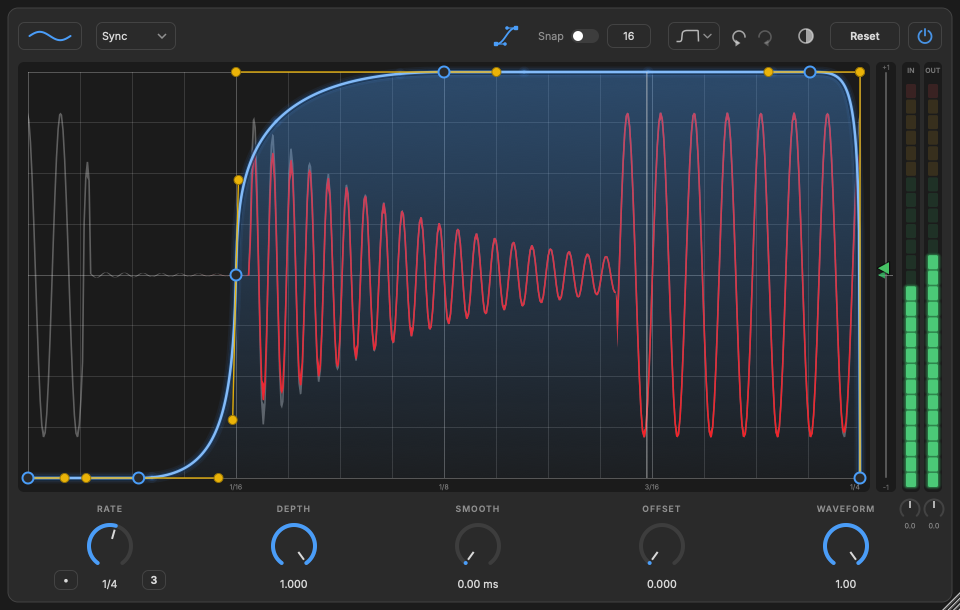
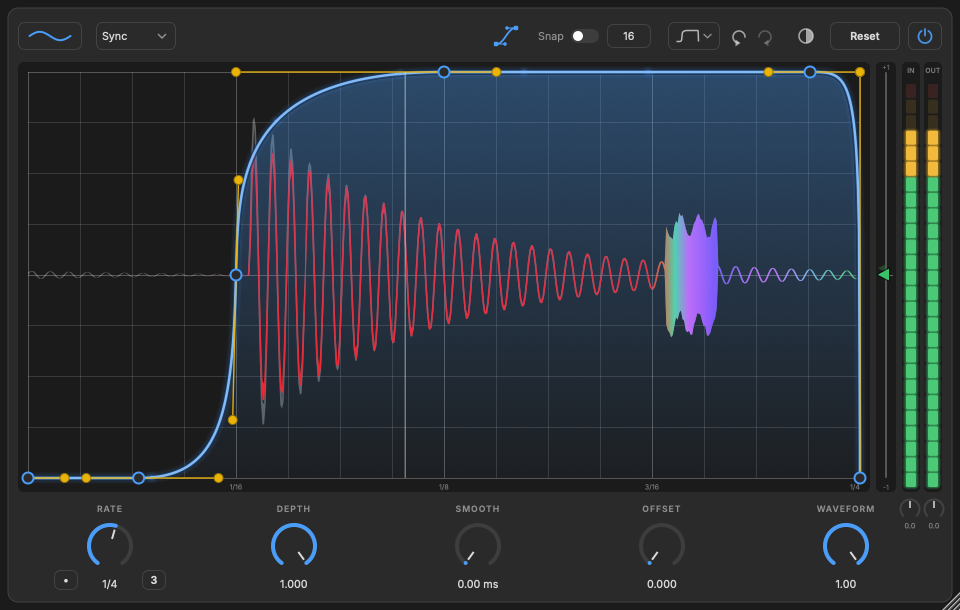
README screenshots: let the meters redraw and the scope fill with fresh audio before capturing; test that single-band OUT never reads above IN

Changed region(s): [[0.625, 0.1869, 1.0, 0.7164], [0.0312, 0.218, 0.0938, 0.7164]]

diff --git a/tests/snapshot.cpp b/tests/snapshot.cpp
@@ -1062,10 +1062,12 @@ int main(int argc, char** argv)
         fe->setDarkMode(true, false);
         juce::MessageManager::getInstance()->runDispatchLoopUntil(300);
         run(30);
+        juce::MessageManager::getInstance()->runDispatchLoopUntil(100); // the meters redraw on a timer: let them catch up with this audio
         save(ed->createComponentSnapshot(ed->getLocalBounds(), true, 1.0f), dir.getChildFile("dark_multiband.png"));
         setParam(p, "mb", 0.f);
         juce::MessageManager::getInstance()->runDispatchLoopUntil(300);
-        run(30);
+        run(200); // several whole cycles, so no part of the scope still shows earlier material
+        juce::MessageManager::getInstance()->runDispatchLoopUntil(100); // the meters redraw on a timer: let them catch up with this audio
         save(ed->createComponentSnapshot(ed->getLocalBounds(), true, 1.0f), dir.getChildFile("dark_single.png"));
         for (auto* c : ed->getChildren())   // the first knob is Rate: open its type-in box
             if (auto* k = dynamic_cast<Knob*>(c)) { k->showTextBox(); break; }
@@ -1076,6 +1078,7 @@ int main(int argc, char** argv)
         fe->setDarkMode(false, false);
         juce::MessageManager::getInstance()->runDispatchLoopUntil(200);
         run(30);
+        juce::MessageManager::getInstance()->runDispatchLoopUntil(100); // the meters redraw on a timer: let them catch up with this audio
         save(ed->createComponentSnapshot(ed->getLocalBounds(), true, 1.0f), dir.getChildFile("light_single.png"));
         setParam(p, "mb", 1.f);
         juce::MessageManager::getInstance()->runDispatchLoopUntil(300);

diff --git a/tests/audio_test.cpp b/tests/audio_test.cpp
@@ -356,6 +356,19 @@ static void testMeters()
     const float mi = r.p.meterIn.load(), mo = r.p.meterOut.load();
     check(mi > 0.45f && mi < 0.52f, "input meter reads the input peak", fmt("%.3f (input peak 0.5)", mi));
     check(mo <= mi + 1e-4f && mo > 0.f, "output meter reads at most the input peak", fmt("%.3f", mo));
+    {   // and not just at the end: after every block, with levels jumping around and the meters falling in between
+        Rig q; q.p.editorOpen.store(true);
+        std::mt19937 rng(71);
+        std::uniform_real_distribution<float> u(0.f, 1.f);
+        double worst = -1.0;
+        for (int block = 0; block < 2000; ++block)
+        {
+            const size_t n = 1 + (size_t) (u(rng) * 700.f);
+            q.render(noise(n, 1000u + (unsigned) block, u(rng) < 0.2f ? 0.9f : 0.9f * u(rng) * u(rng)), { (int) n });
+            worst = std::max(worst, (double) q.p.meterOut.load() - (double) q.p.meterIn.load());
+        }
+        check(worst <= 1e-6, "single band: OUT is never above IN, after any of 2000 blocks", fmt("largest OUT minus IN %.6f", worst));
+    }
 }
 
 // ---------------------------------------------------------------------------------------------

diff --git a/README.md b/README.md
@@ -157,7 +157,7 @@ Everything below runs offline, without a DAW or a sound card. A small **fake DAW
 
 | Program | What it checks | How to run |
 |---|---|---|
-| `LfoAudioTest` | **185 audio checks**: bit-exact null at 100%, exact silence at 0%, transparency of every crossover slope, the Dynamic EQ (bit-exact when open, never boosting, band isolation), block-size independence, clicks on 30 kinds of parameter change, filter stability across 4 sample rates, NaN/Inf and zero-length blocks, a fuzz test that randomises every parameter and the transport, tempo accuracy at 130 bpm, Hz accuracy, MIDI restart, the sidechain bus, bypass (bit-exact, click-free, allocation-free), the output clipper, the input and output gain knobs, the peak meters and the spectrum analyser, state save/load (including projects over the point limit), settings, curves and projects containing NaN or infinity, zero allocations on the audio thread, thread safety while the curve is edited, CPU worst cases and denormals | `build/LfoAudioTest_artefacts/Release/LfoAudioTest` |
+| `LfoAudioTest` | **186 audio checks**: bit-exact null at 100%, exact silence at 0%, transparency of every crossover slope, the Dynamic EQ (bit-exact when open, never boosting, band isolation), block-size independence, clicks on 30 kinds of parameter change, filter stability across 4 sample rates, NaN/Inf and zero-length blocks, a fuzz test that randomises every parameter and the transport, tempo accuracy at 130 bpm, Hz accuracy, MIDI restart, the sidechain bus, bypass (bit-exact, click-free, allocation-free), the output clipper, the input and output gain knobs, the peak meters and the spectrum analyser, state save/load (including projects over the point limit), settings, curves and projects containing NaN or infinity, zero allocations on the audio thread, thread safety while the curve is edited, CPU worst cases and denormals | `build/LfoAudioTest_artefacts/Release/LfoAudioTest` |
 | `tests/envelope_test.cpp` | The curve model: Bezier evaluation, Simple-mode bends, conversions between the two, the default curves, saving and loading, the 64-point limit | `clang++ -std=c++17 tests/envelope_test.cpp -o envtest && ./envtest` |
 | `tests/crossover_test.cpp` | The crossover maths for all six slopes, mixed slopes, and the drawn response curves | `clang++ -std=c++17 tests/crossover_test.cpp -o xotest && ./xotest` |
 | `LfoMonkey` | Random clicks, drags, resizing, closing and reopening the window, automation, undo, and normal and damaged project loads, while audio runs on a second thread. Checks that the audio and curves stay valid. Most useful built with sanitizers (`-fsanitize=address,undefined` or `-fsanitize=thread`) | `build/LfoMonkey_artefacts/Release/LfoMonkey [seed] [actions]` |
